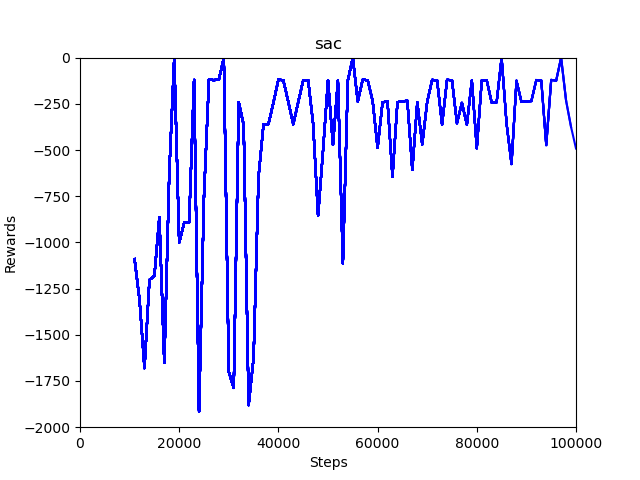
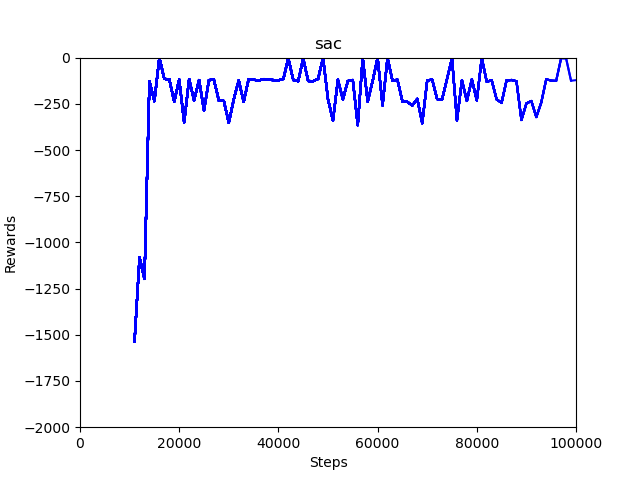
Use torch.distributions.transforms for SAC

Changed region(s): [[0.1875, 0.125, 0.9062, 0.8438]]

diff --git a/models.py b/models.py
@@ -1,7 +1,8 @@
 import copy
 import torch
 from torch import nn
-from torch.distributions import Distribution, Independent, Normal
+from torch.distributions import Distribution, Independent, Normal, TransformedDistribution
+from torch.distributions.transforms import AffineTransform, TanhTransform
 
 
 class Actor(nn.Module):
@@ -19,38 +20,19 @@ class Actor(nn.Module):
     return policy
 
 
-class TanhNormal(Distribution):
-  def __init__(self, loc, scale):
-    super().__init__()
-    self.normal = Independent(Normal(loc, scale), 1)
-
-  def sample(self):
-    return torch.tanh(self.normal.sample())
-
-  def rsample(self):
-    return torch.tanh(self.normal.rsample())
-
-  # Calculates log probability of value using the change-of-variables technique (uses log1p = log(1 + x) for extra numerical stability)
-  def log_prob(self, value):
-    inv_value = (torch.log1p(value) - torch.log1p(-value)) / 2  # artanh(y)
-    return self.normal.log_prob(inv_value) - torch.log1p(-value.pow(2) + 1e-6).sum(dim=1)  # log p(f^-1(y)) + log |det(J(f^-1(y)))|
-
-  @property
-  def mean(self):
-    return torch.tanh(self.normal.mean)
-
-
 class SoftActor(nn.Module):
-  def __init__(self, observation_size, action_size, hidden_size):
+  def __init__(self, observation_size, action_size, hidden_size, min_action, max_action):
     super().__init__()
     self.log_std_min, self.log_std_max = -20, 2  # Constrain range of standard deviations to prevent very deterministic/stochastic policies
+    self.action_loc, self.action_scale = torch.tensor(max_action + min_action, dtype=torch.float32) / 2, torch.tensor(max_action - min_action, dtype=torch.float32) / 2    # Affine transformation from (-1, 1) to action space bounds
     layers = [nn.Linear(observation_size, hidden_size), nn.Tanh(), nn.Linear(hidden_size, hidden_size), nn.Tanh(), nn.Linear(hidden_size, 2 * action_size)]
     self.policy = nn.Sequential(*layers)
 
   def forward(self, state):
     policy_mean, policy_log_std = self.policy(state).chunk(2, dim=1)
     policy_log_std = torch.clamp(policy_log_std, min=self.log_std_min, max=self.log_std_max)
-    policy = TanhNormal(policy_mean, policy_log_std.exp())
+    policy = TransformedDistribution(Independent(Normal(policy_mean, policy_log_std.exp()), 1), [TanhTransform(), AffineTransform(loc=self.action_loc, scale=self.action_scale)])
+    policy.mean_ = self.action_scale * torch.tanh(policy.base_dist.mean) + self.action_loc  # TODO: See if mean attr can be overwritten
     return policy
 
 

diff --git a/sac.py b/sac.py
@@ -8,8 +8,9 @@ from env import Env
 from models import Critic, SoftActor, create_target_network, update_target_network
 from utils import plot
 
+
 env = Env()
-actor = SoftActor(env.observation_space.shape[0], env.action_space.shape[0], HIDDEN_SIZE)
+actor = SoftActor(env.observation_space.shape[0], env.action_space.shape[0], HIDDEN_SIZE, env.action_space.low, env.action_space.high)
 critic_1 = Critic(env.observation_space.shape[0], env.action_space.shape[0], HIDDEN_SIZE, state_action=True)
 critic_2 = Critic(env.observation_space.shape[0], env.action_space.shape[0], HIDDEN_SIZE, state_action=True)
 value_critic = Critic(env.observation_space.shape[0], env.action_space.shape[0], HIDDEN_SIZE)
@@ -25,7 +26,7 @@ def test(actor):
     env = Env()
     state, done, total_reward = env.reset(), False, 0
     while not done:
-      action = actor(state).mean  # Use purely exploitative policy at test time
+      action = actor(state).mean_  # Use purely exploitative policy at test time
       state, reward, done = env.step(action)
       total_reward += reward
     return total_reward
